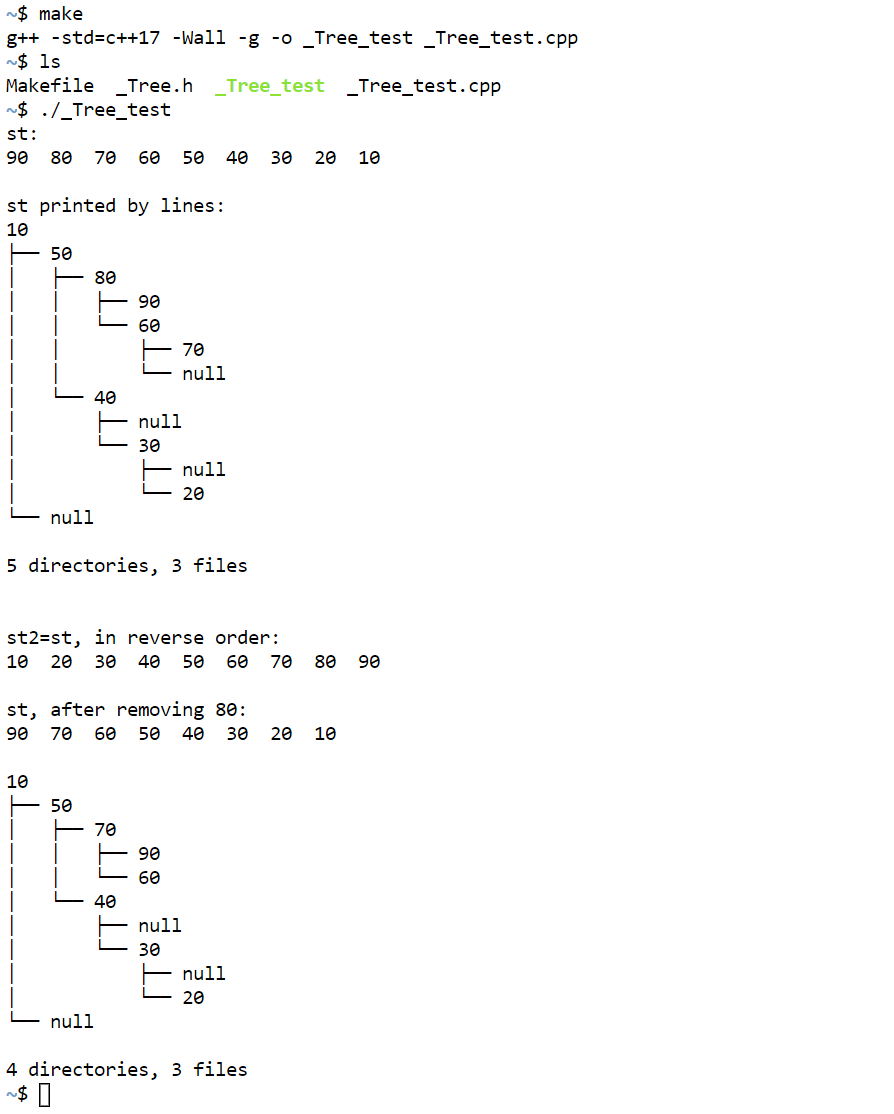
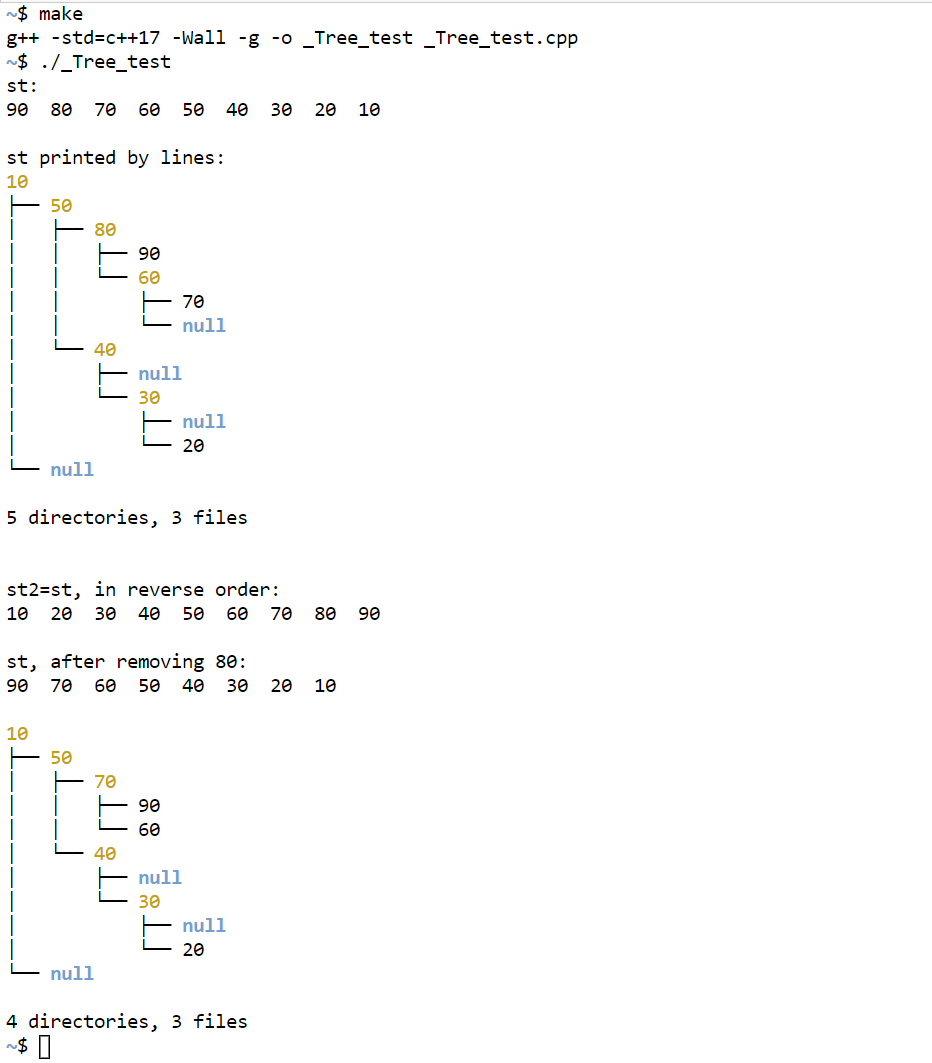
:art:Add colors to print tree by lines routine

diff --git a/Searching/_Tree.h b/Searching/_Tree.h
@@ -7,10 +7,10 @@
  */
 #ifndef _TREE_H
 #define _TREE_H
-//#include <utility>
-//#include <string>
-//#include <iterator>
-#include <iostream>
+#include <memory> // std::addressof
+#include <string>
+#include <iterator> // std::reverse_iterator
+#include <iostream> // std::cout
 
 #ifndef NDEBUG
 #   define _assert(condition, message) \
@@ -34,8 +34,8 @@ struct Tree_node {
 		node_ptr left = nullptr, node_ptr right = nullptr) :
 		_data(val), _N(N), _parent(parent), _left(left), _right(right) {}
 
-	T* val_ptr() {
-		return std::addressof(_data);
+	T* val_ptr() {// in case operator& is overloaded 
+		return std::addressof(_data); // return &_data;
 	}
 	const T* val_ptr() const {
 		return std::addressof(_data);
@@ -128,23 +128,6 @@ public:
 	bool contains(const T& key) const { return find(_root, key) != nullptr; }
 
 	node_ptr& root() noexcept { return _root; }
-
-	// element access for map
-	/*Val& at(const Key& key) {
-		node_ptr x = find(_root, key);
-		if (x == nullptr) throw std::out_of_range("at() called with invalid argument: key NOT found");
-		return x->_data;
-	}
-	Val& operator[](const Key& key) {
-		node_ptr x = find(_root, key);
-		if (x == nullptr) { insert(key, Val{}); return find(_root, key)->_data; }
-		return x->_data;
-	}
-	const Val& at(const Key& key) const {
-		node_ptr x = find(_root, key);
-		if (x == nullptr) throw std::out_of_range("at() called with invalid argument: key NOT found");
-		return x->_data;
-	}*/
 
 	// return end() if not found
 	iterator find(const T& key) {
@@ -369,40 +352,56 @@ protected:
 	// print with level
 	void print(node_ptr dir, size_t max_level) const noexcept {
 		if (dir == nullptr) return;
-		std::cout << dir->_data << '\n';
+		if (max_level == 0) {
+			std::cout << "Invalid level, must be greater than 0.\n";
+			return;
+		}
+		std::cout << "\033[0;33m" << dir->_data << "\033[0m\n";
 		size_t dir_count = 0, file_count = 0, curr_level = 1;
 		dfs_print(dir, "", dir_count, file_count, curr_level, max_level);
 		std::cout << '\n' << dir_count << " directories, " << file_count << " files\n";
 	}
 
 	void dfs_print(node_ptr dir, const std::string& children_prefix, size_t& dir_count,
-		size_t& file_count, size_t& curr_level, size_t max_level) const noexcept
+		size_t& file_count, size_t curr_level, size_t max_level) const noexcept
 	{
 		if (dir == nullptr) return;
 		node_ptr curr{};
 		if ((curr = dir->_left) != nullptr) {
-			std::cout << children_prefix << "├── " << curr->_data << '\n';
-			if (has_children(curr) && curr_level < max_level)
-				dfs_print(curr, children_prefix + "|   ", ++dir_count, file_count, ++curr_level, max_level);
-			else ++file_count;
+			if (has_children(curr)) {
+				++dir_count;                            // brown color for directories
+				std::cout << children_prefix << "├── " << "\033[0;33m" << curr->_data << "\033[0m\n";
+				if (curr_level < max_level)// don't write as ++curr_level, since it will affect its right sibling
+					dfs_print(curr, children_prefix + "|   ", dir_count, file_count, 1 + curr_level, max_level);
+			}
+			else {
+				++file_count;                 // default colors for files
+				std::cout << children_prefix << "├── " << curr->_data << "\n";
+			}
 		}
-		else if (dir->_right != nullptr) {// only have right child, print left child as null
-			std::cout << children_prefix << "├── " << "null\n";
+		else if (dir->_right != nullptr) {// only have right child, print left child as null (bold blue)
+			std::cout << children_prefix << "├── " << "\033[1;34m" << "null" << "\033[0m\n";
 		}
 
 		if ((curr = dir->_right) != nullptr) {
-			std::cout << children_prefix << "└── " << curr->_data << '\n';
-			if (has_children(curr) && curr_level < max_level)
-				dfs_print(curr, children_prefix + "    ", ++dir_count, file_count, ++curr_level, max_level);
-			else ++file_count;
+			if (has_children(curr)) {
+				++dir_count;
+				std::cout << children_prefix << "└── " << "\033[0;33m" << curr->_data << "\033[0m\n";
+				if (curr_level < max_level)
+					dfs_print(curr, children_prefix + "    ", dir_count, file_count, ++curr_level, max_level);
+			}
+			else {
+				++file_count;
+				std::cout << children_prefix << "└── " << curr->_data << "\n";
+			}
 		}
-		else if (dir->_left != nullptr) {// only have left child, print right child as null
-			std::cout << children_prefix << "└── " << "null\n";
+		else if (dir->_left != nullptr) {// only have left child, print right child as null (bold blue)
+			std::cout << children_prefix << "└── " << "\033[1;34m" << "null" << "\033[0m\n";
 		}
 	}
 
 	// precondition: dir != nullptr
-	bool has_children(node_ptr dir) const noexcept {
+	static bool has_children(node_ptr dir) noexcept {
 		return dir->_left != nullptr || dir->_right != nullptr;
 	}
 

diff --git a/Tree/tree/Tree.h b/Tree/tree/Tree.h
@@ -45,20 +45,16 @@ public:
 	void print_tree(node_ptr t)const; // print tree in generalized list form
 
 	// print tree by lines, like Linux tree command
-	void print(node_ptr dir)const {
-		if (dir == nullptr) return;
-		std::cout << dir->_data << '\n';
-		size_t dir_count = 0, file_count = 0;
-		dfs_print(dir, "", dir_count, file_count);
-		std::cout << '\n' << dir_count << " directories, " << file_count << " files\n";
-	}
-	
+	void print(size_t level = 100) const { print(_root, level); }
+
 private:
 	node_ptr _root;
 	static void visit(node_ptr t);
 	size_t count_node(node_ptr t, bool is_same_level) const;
 	void print_path(node_ptr t, SeqStack<T>& s, bool is_same_level) const;
-	void dfs_print(node_ptr dir, const std::string& children_prefix, size_t& dir_count, size_t& file_count)const;
+	void print(node_ptr dir, size_t level) const;
+	void dfs_print(node_ptr dir, const std::string& children_prefix,
+		size_t& dir_count, size_t& file_count, size_t curr_level, size_t max_level) const;
 
 	// precondition: t != nullptr
 	bool is_last_child(node_ptr t) const { return t->_next_sibling == nullptr; }
@@ -217,24 +213,48 @@ void Tree<T>::print_tree(node_ptr t) const
 }
 
 template<typename T>
-void Tree<T>::dfs_print(node_ptr dir, const std::string& children_prefix, size_t& dir_count, size_t& file_count) const
+void Tree<T>::print(node_ptr dir, size_t max_level)const {
+	if (dir == nullptr) return;
+	if (max_level == 0) {
+		std::cout << "Invalid level, must be greater than 0.\n";
+		return;
+	}
+	std::cout << "\033[0;33m" << dir->_data << "\033[0m\n";
+	size_t dir_count = 0, file_count = 0, curr_level = 1;
+	dfs_print(dir, "", dir_count, file_count, curr_level, max_level);
+	std::cout << '\n' << dir_count << " directories, " << file_count << " files\n";
+}
+
+template<typename T>
+void Tree<T>::dfs_print(node_ptr dir, const std::string& children_prefix,
+	size_t& dir_count, size_t& file_count, size_t curr_level, size_t max_level) const
 {
 	if (dir == nullptr) return;
 	for (node_ptr i = dir->_first_child; i != nullptr; i = i->_next_sibling) {
-		std::string addition{};
-		if (is_last_child(i)) {
-			std::cout << children_prefix << "└── " << i->_data << '\n';
-			addition = "    "; // 4 whitespace
+		if (!is_last_child(i)) {
+			if (has_children(i)) {// is_directory
+				++dir_count;
+				std::cout << children_prefix << "├── " << "\033[0;33m" << i->_data << "\033[0m\n";
+				if (curr_level < max_level)// don't write as ++curr_level, since it will affect its (following) siblings
+					dfs_print(i, children_prefix + "|   ", dir_count, file_count, 1 + curr_level, max_level);
+			}
+			else {
+				++file_count;
+				std::cout << children_prefix << "├── " << "\033[1;34m" << i->_data << "\033[0m\n";
+			}
 		}
-		else {
-			std::cout << children_prefix << "├── " << i->_data << '\n';
-			addition = "|   "; // 3 ws
+		else {// last child
+			if (has_children(i)) {// is_directory
+				++dir_count;
+				std::cout << children_prefix << "└── " << "\033[0;33m" << i->_data << "\033[0m\n";
+				if (curr_level < max_level)
+					dfs_print(i, children_prefix + "    ", dir_count, file_count, ++curr_level, max_level);
+			}
+			else {
+				++file_count;
+				std::cout << children_prefix << "└── " << "\033[1;34m" << i->_data << "\033[0m\n";
+			}
 		}
-
-		if (has_children(i)) {// is_directory
-			dfs_print(i, children_prefix + addition, ++dir_count, file_count);
-		}
-		else ++file_count;
 	}
 }
 

diff --git a/Tree/tree/Tree_test.cpp b/Tree/tree/Tree_test.cpp
@@ -23,7 +23,8 @@ void tree_operations()
 
 	cout << "\nThe tree inputted is: "; tree.print_tree(root);
 	cout << "\nOr as follows:\n\n";
-	tree.print(root);
+	tree.print();
+	//tree.print(2); // print only 2 levels
 
 	cout << "\nAll paths from root to leaves are as follows:\n";
 	tree.print_path(root);
